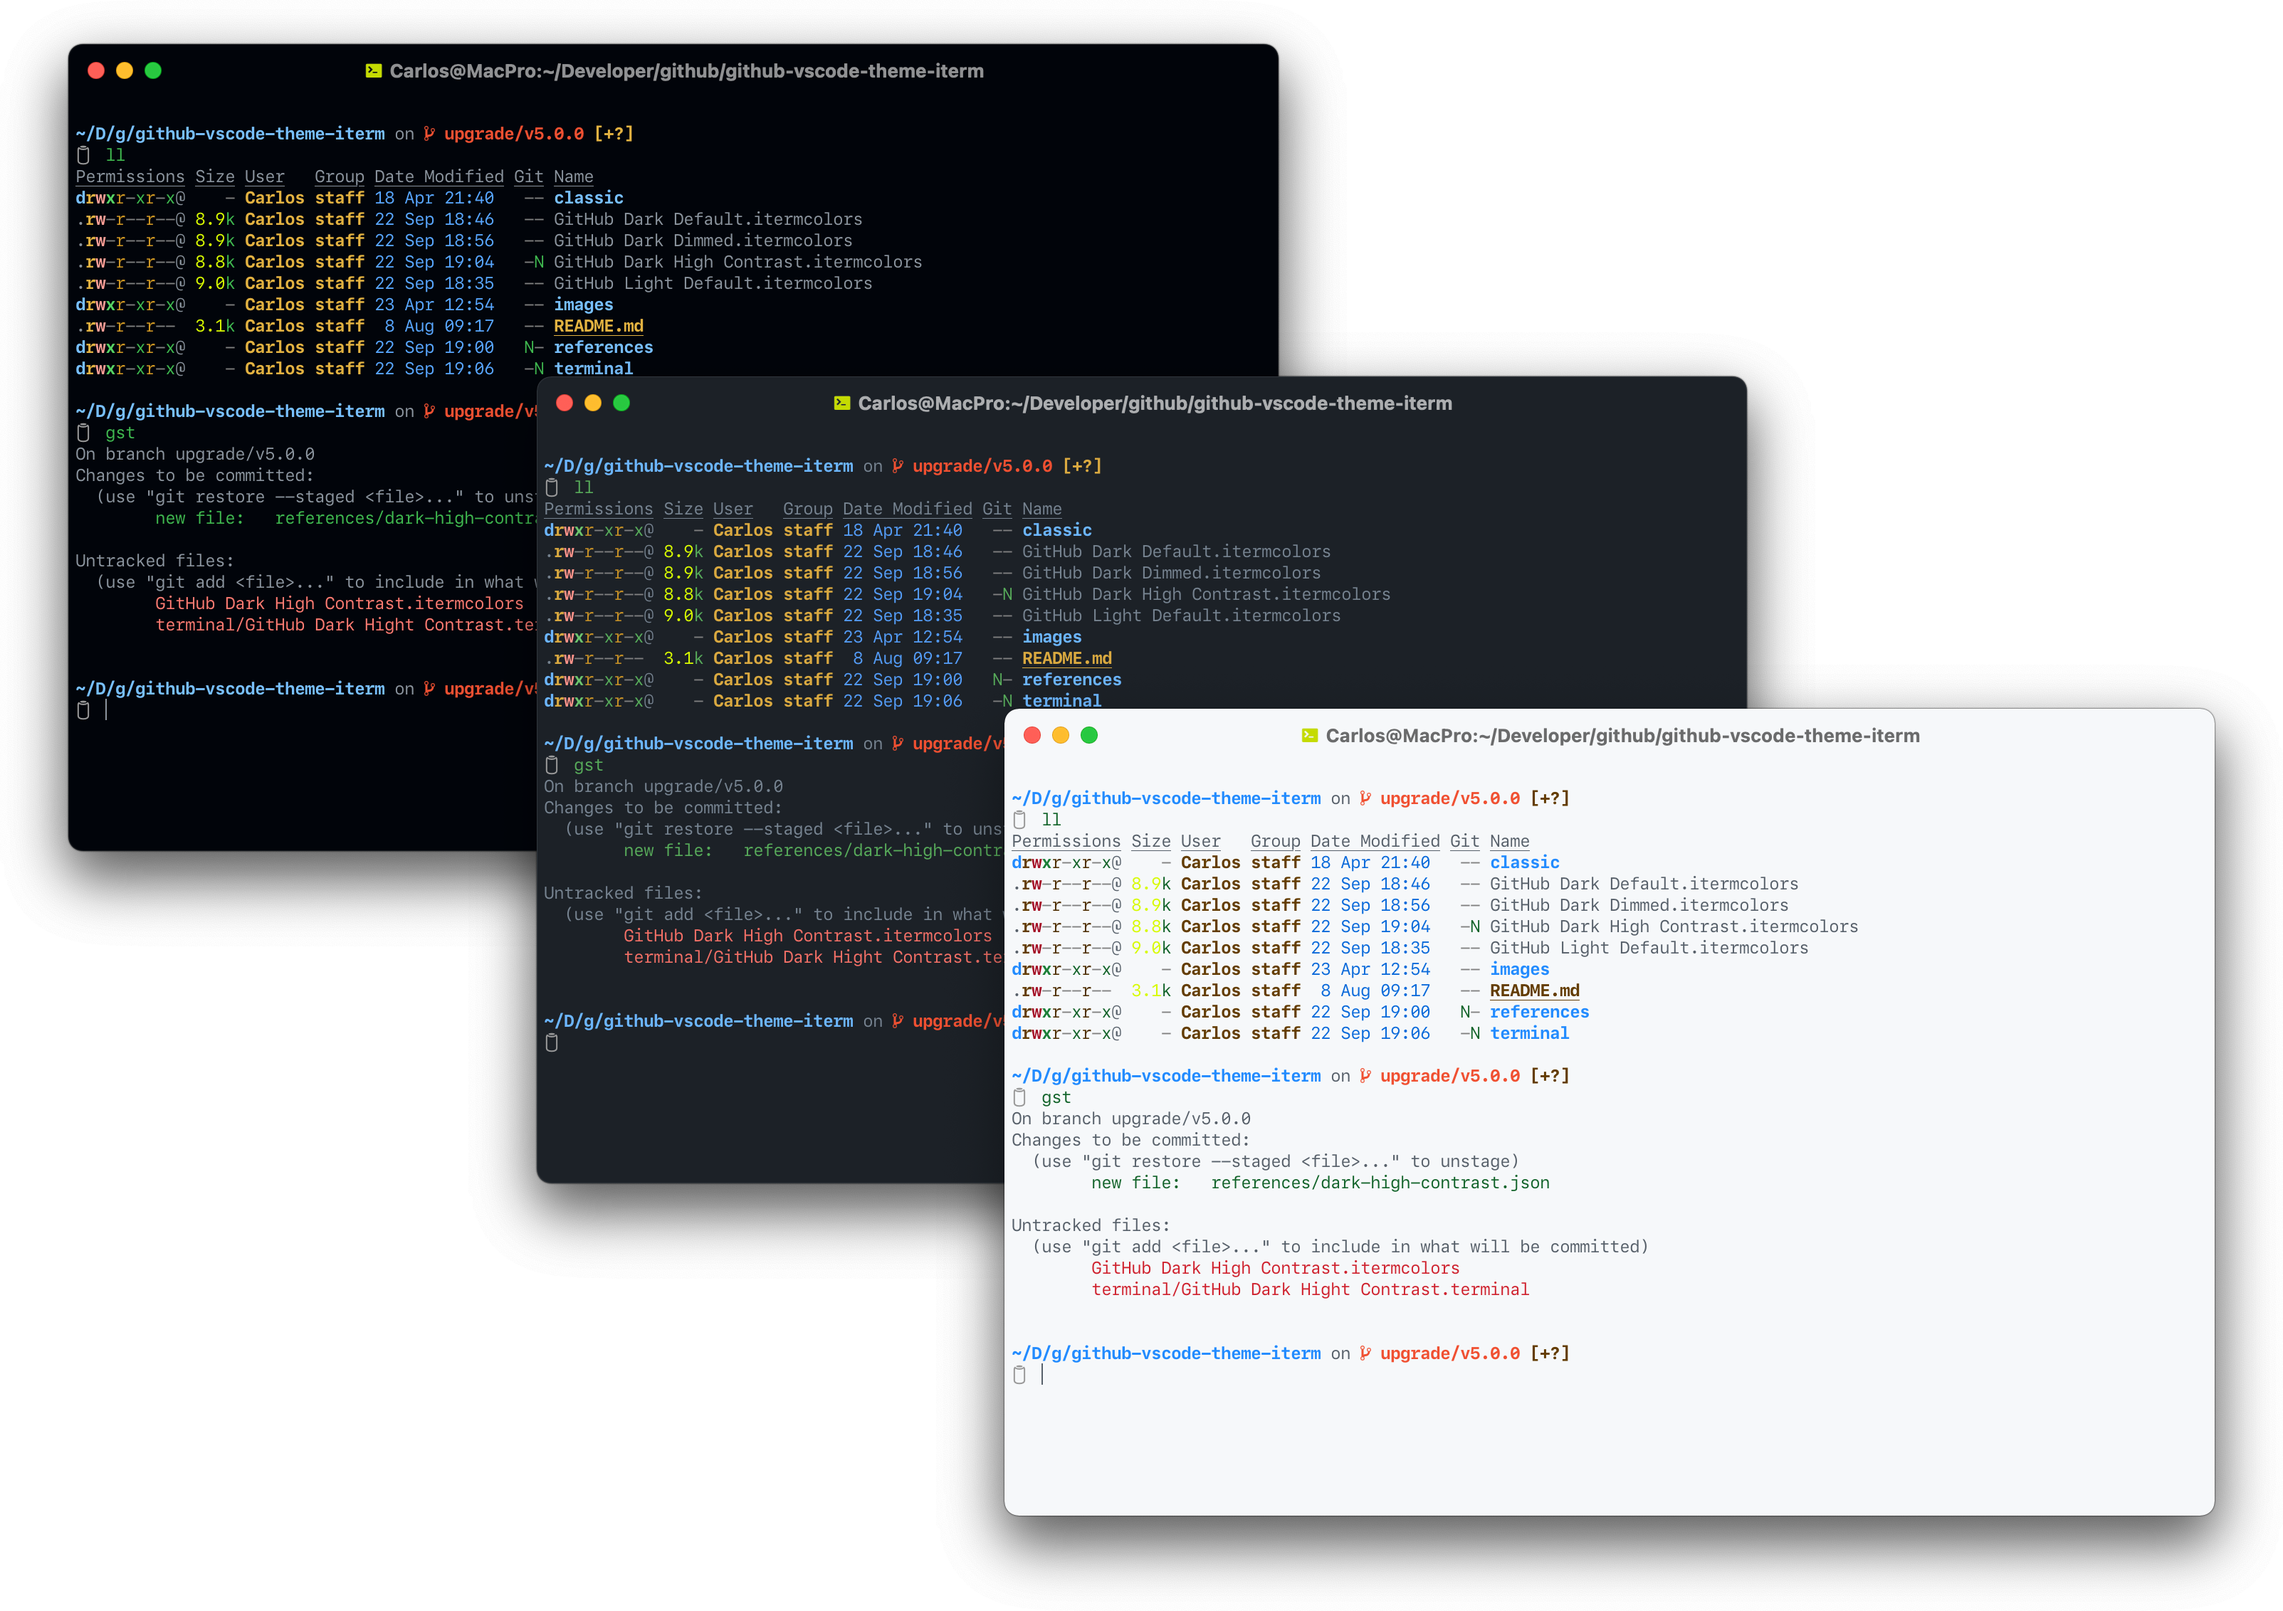
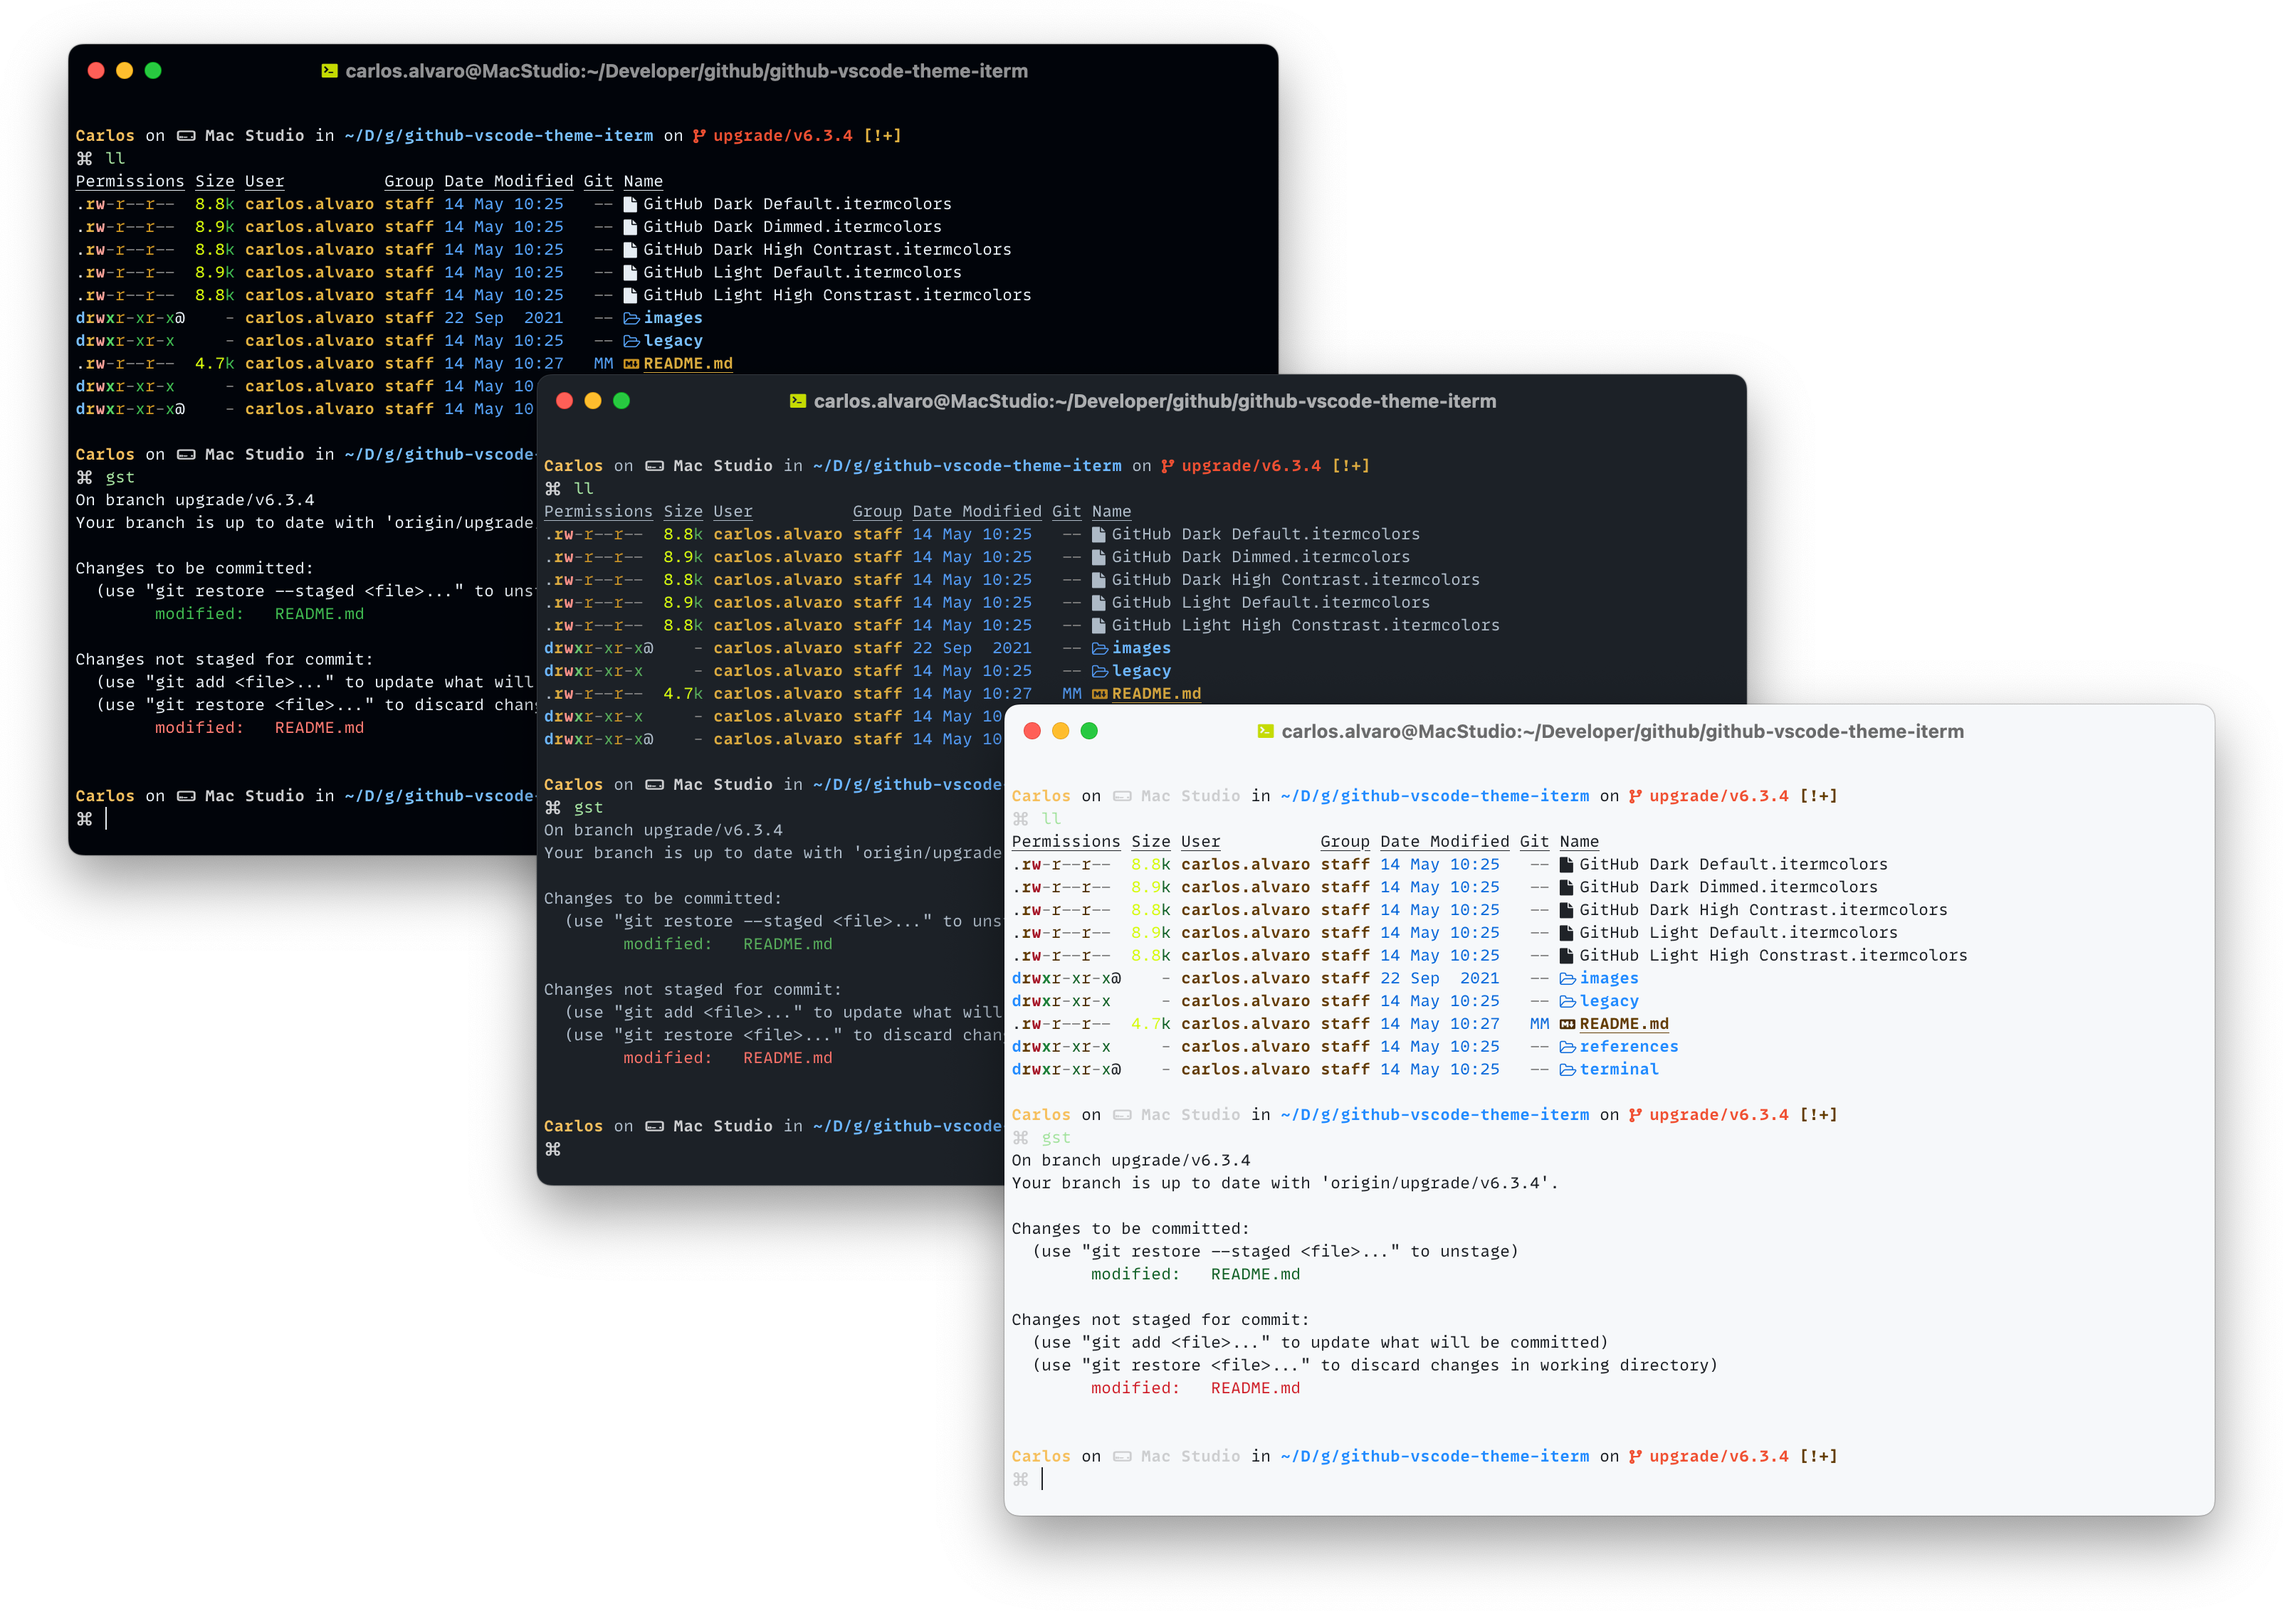
doc: Update README.md

Changed region(s): [[0.0, 0.0309, 0.9978, 0.9894], [0.7172, 0.6802, 0.7484, 0.7111]]

diff --git a/README.md b/README.md
@@ -2,7 +2,7 @@
 
 # GitHub VS Code Theme for iTerm
 
-<img src="https://github.gallerycdn.vsassets.io/extensions/github/github-vscode-theme/5.0.0/1632266107024/Microsoft.VisualStudio.Services.Icons.Default" width="64px" align="right" style="top: 1px; visibility: visible;" />
+<img src="https://github.gallerycdn.vsassets.io/extensions/github/github-vscode-theme/6.3.4/1680003819182/Microsoft.VisualStudio.Services.Icons.Default" width="64px" align="right" style="top: 1px; visibility: visible;" />
 
 [GitHub Visual Studio Code Theme][vscode-github-theme-marketplace] for [iTerm](https://iterm2.com) (Dark, Dimmed, Light and High Contrast)
 
@@ -15,13 +15,26 @@ Download iTerm profiles and open them.
 
 - [GitHub Dark Default.itermcolors](https://raw.githubusercontent.com/cdalvaro/github-theme-iterm/HEAD/GitHub%20Dark%20Default.itermcolors)
 - [GitHub Dark Dimmed.itermcolors](https://raw.githubusercontent.com/cdalvaro/github-theme-iterm/HEAD/GitHub%20Dark%20Dimmed.itermcolors)
-- [GitHub Light Default.itermcolors](https://raw.githubusercontent.com/cdalvaro/github-theme-iterm/HEAD/GitHub%20Light%20Default.itermcolors)
 - [GitHub Dark High Contrast.itermcolors](https://raw.githubusercontent.com/cdalvaro/github-theme-iterm/HEAD/GitHub%20Dark%20High%20Contrast.itermcolors)
+- [GitHub Light Default.itermcolors](https://raw.githubusercontent.com/cdalvaro/github-theme-iterm/HEAD/GitHub%20Light%20Default.itermcolors)
+- [GitHub Light High Contrast.itermcolors](https://raw.githubusercontent.com/cdalvaro/github-theme-iterm/HEAD/GitHub%20Light%20High%20Contrast.itermcolors)
+
+|GitHub Dark Default|GitHub Dark Dimmed|GitHub Dark Hight Contrast|
+|:---:|:---:|:---:|
+|![GitHub Dark Default](images/GitHub_Dark_Default-iTerm.png)|![GitHub Dark Dimmed](images/GitHub_Dark_Dimmed-iTerm.png)|![GitHub Dark Hight Contrast](images/GitHub_Dark_High_Contrast-iTerm.png)|
+
+|GitHub Light Default|GitHub Light High Contrast|
+|:---:|:---:|
+|![GitHub Light Default](images/GitHub_Light_Default-iTerm.png)|![GitHub Light High Contrast](images/GitHub_Light_High_Contrast-iTerm.png)|
 
 ### iTerm legacy themes
 
 - [GitHub Dark.itermcolors](https://raw.githubusercontent.com/cdalvaro/github-theme-iterm/HEAD/legacy/GitHub%20Dark.itermcolors)
 - [GitHub Light.itermcolors](https://raw.githubusercontent.com/cdalvaro/github-theme-iterm/HEAD/legacy/GitHub%20Light.itermcolors)
+
+|GitHub Dark|GitHub Light|
+|:---:|:---:|
+|![GitHub Dark](images/GitHub_Dark-iTerm.png)|![GitHub Light](images/GitHub_Light-iTerm.png)|
 
 They will be automatically added to your _Color Presets..._ inside _Profiles > Colors_ in iTerm Preferences pane.
 
@@ -33,8 +46,9 @@ You can also download these profiles for Apple Terminal app:
 
 - [GitHub Dark Default.terminal](https://raw.githubusercontent.com/cdalvaro/github-theme-iterm/HEAD/terminal/GitHub%20Dark%20Default.terminal)
 - [GitHub Dark Dimmed.terminal](https://raw.githubusercontent.com/cdalvaro/github-theme-iterm/HEAD/terminal/GitHub%20Dark%20Dimmed.terminal)
-- [GitHub Light Default.terminal](https://raw.githubusercontent.com/cdalvaro/github-theme-iterm/HEAD/terminal/GitHub%20Light%20Default.terminal)
 - [GitHub Dark High Contrast.terminal](https://raw.githubusercontent.com/cdalvaro/github-theme-iterm/HEAD/terminal/GitHub%20Dark%20High%20Contrast.terminal)
+- [GitHub Light Default.terminal](https://raw.githubusercontent.com/cdalvaro/github-theme-iterm/HEAD/terminal/GitHub%20Light%20Default.terminal)
+- [GitHub Light High Contrast.terminal](https://raw.githubusercontent.com/cdalvaro/github-theme-iterm/HEAD/terminal/GitHub%20Light%20High%20Contrast.terminal)
 
 ### Terminal.app legacy themes
 
@@ -42,14 +56,14 @@ You can also download these profiles for Apple Terminal app:
 - [GitHub Light.terminal](https://raw.githubusercontent.com/cdalvaro/github-theme-iterm/HEAD/terminal/legacy/GitHub%20Light.terminal)
 
 [vscode-github-theme-marketplace]: https://marketplace.visualstudio.com/items?itemName=GitHub.github-vscode-theme
-[vscode-github-theme-version]: https://img.shields.io/badge/GitHub%20Theme-v5.0.0-007ACC?style=flat-square&logo=visual-studio-code&logoColor=007ACC
-[github-vscode-theme-release]: https://github.com/primer/github-vscode-theme/releases/tag/v5.0.0
+[vscode-github-theme-version]: https://img.shields.io/badge/GitHub%20Theme-v6.3.4-007ACC?style=flat-square&logo=visual-studio-code&logoColor=007ACC
+[github-vscode-theme-release]: https://github.com/primer/github-vscode-theme/releases/tag/v6.3.4
 
 ## About my shell setup
 
 I use [Z shell](https://zsh.sourceforge.io) in combination with [_ohmyzsh_](https://ohmyz.sh) framework.
 
-My prompt theme is [starship](https://starship.rs), which is available for any shell.
+My prompt theme is [starship](https://starship.rs), which is available for any shell. And the font I'm currently using is [MonoLisa](https://www.monolisa.dev).
 
 Some of the _ohmyzsh_ plugins I use are:
 
